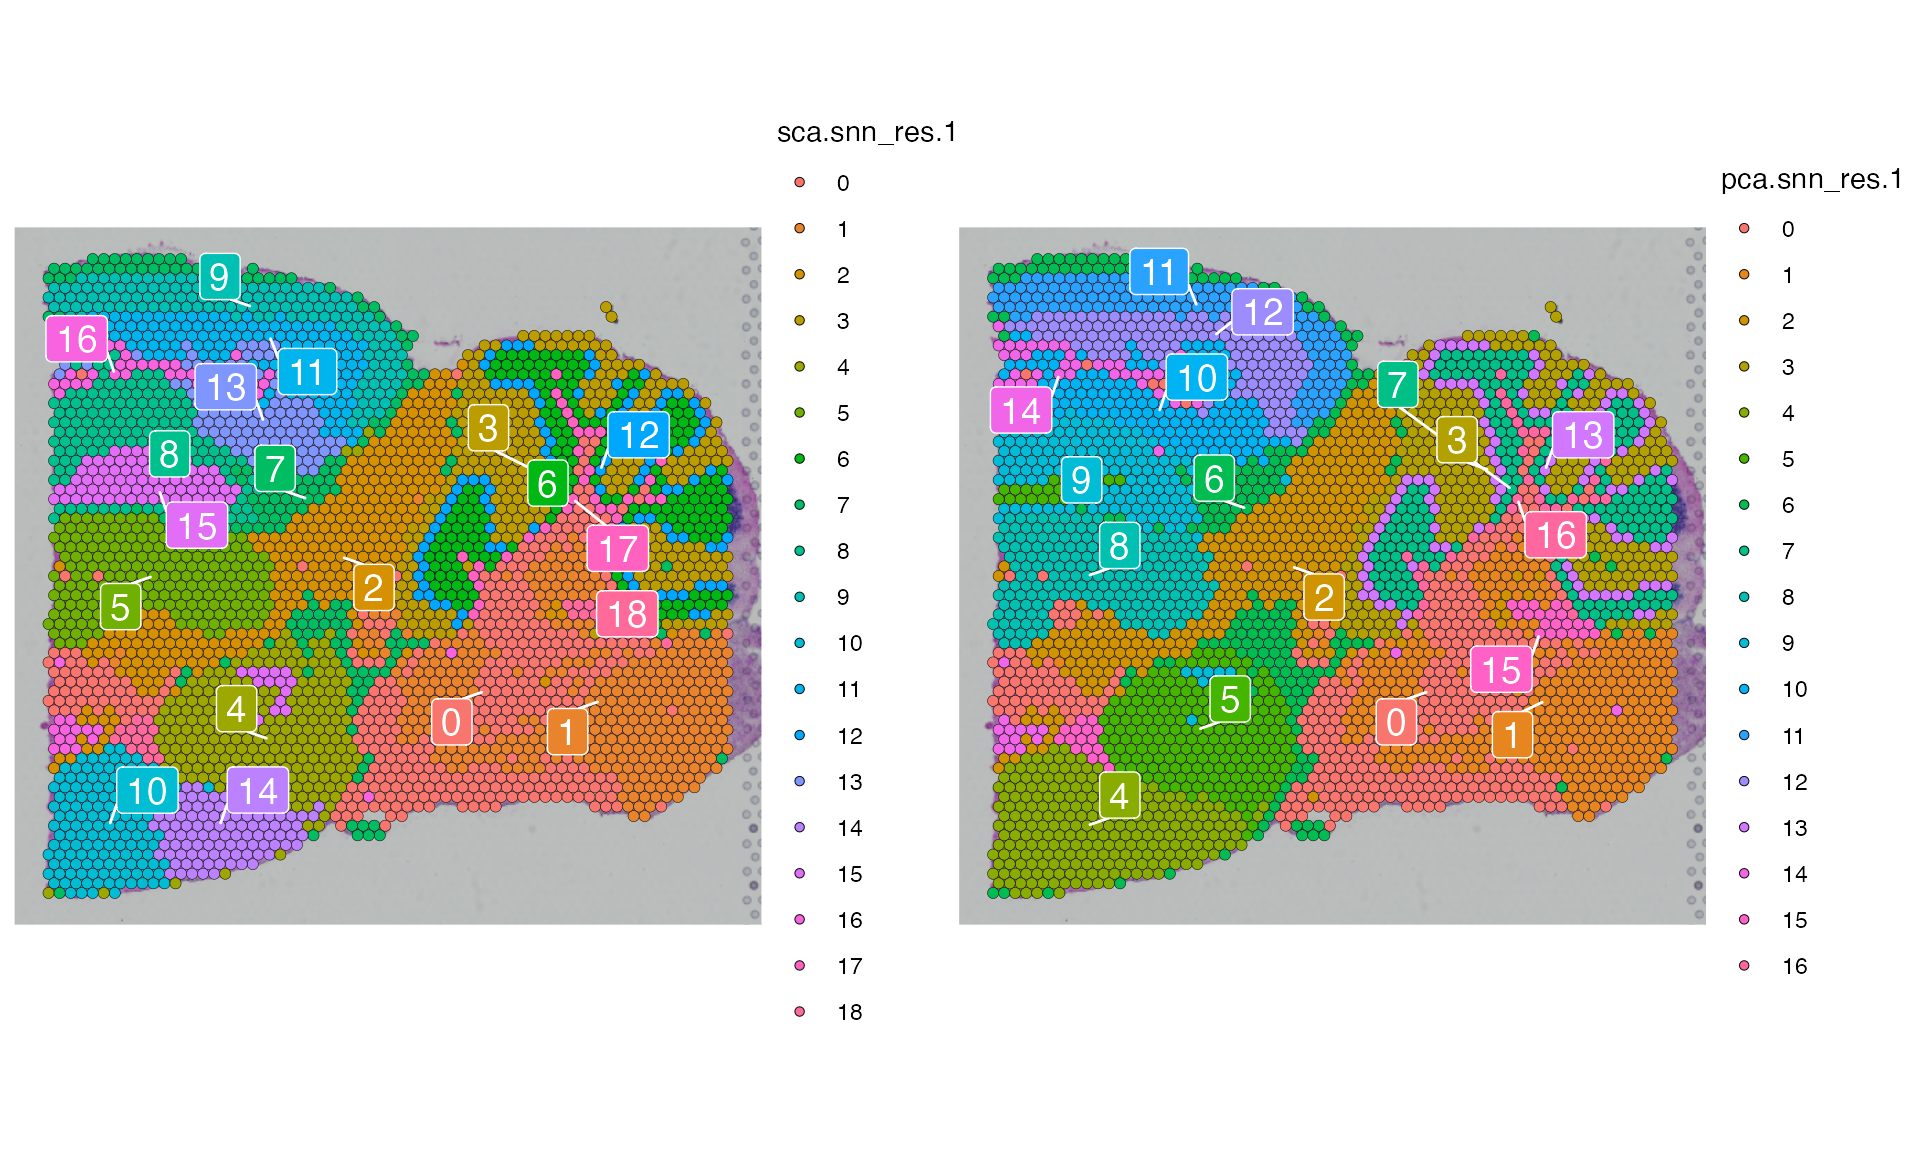
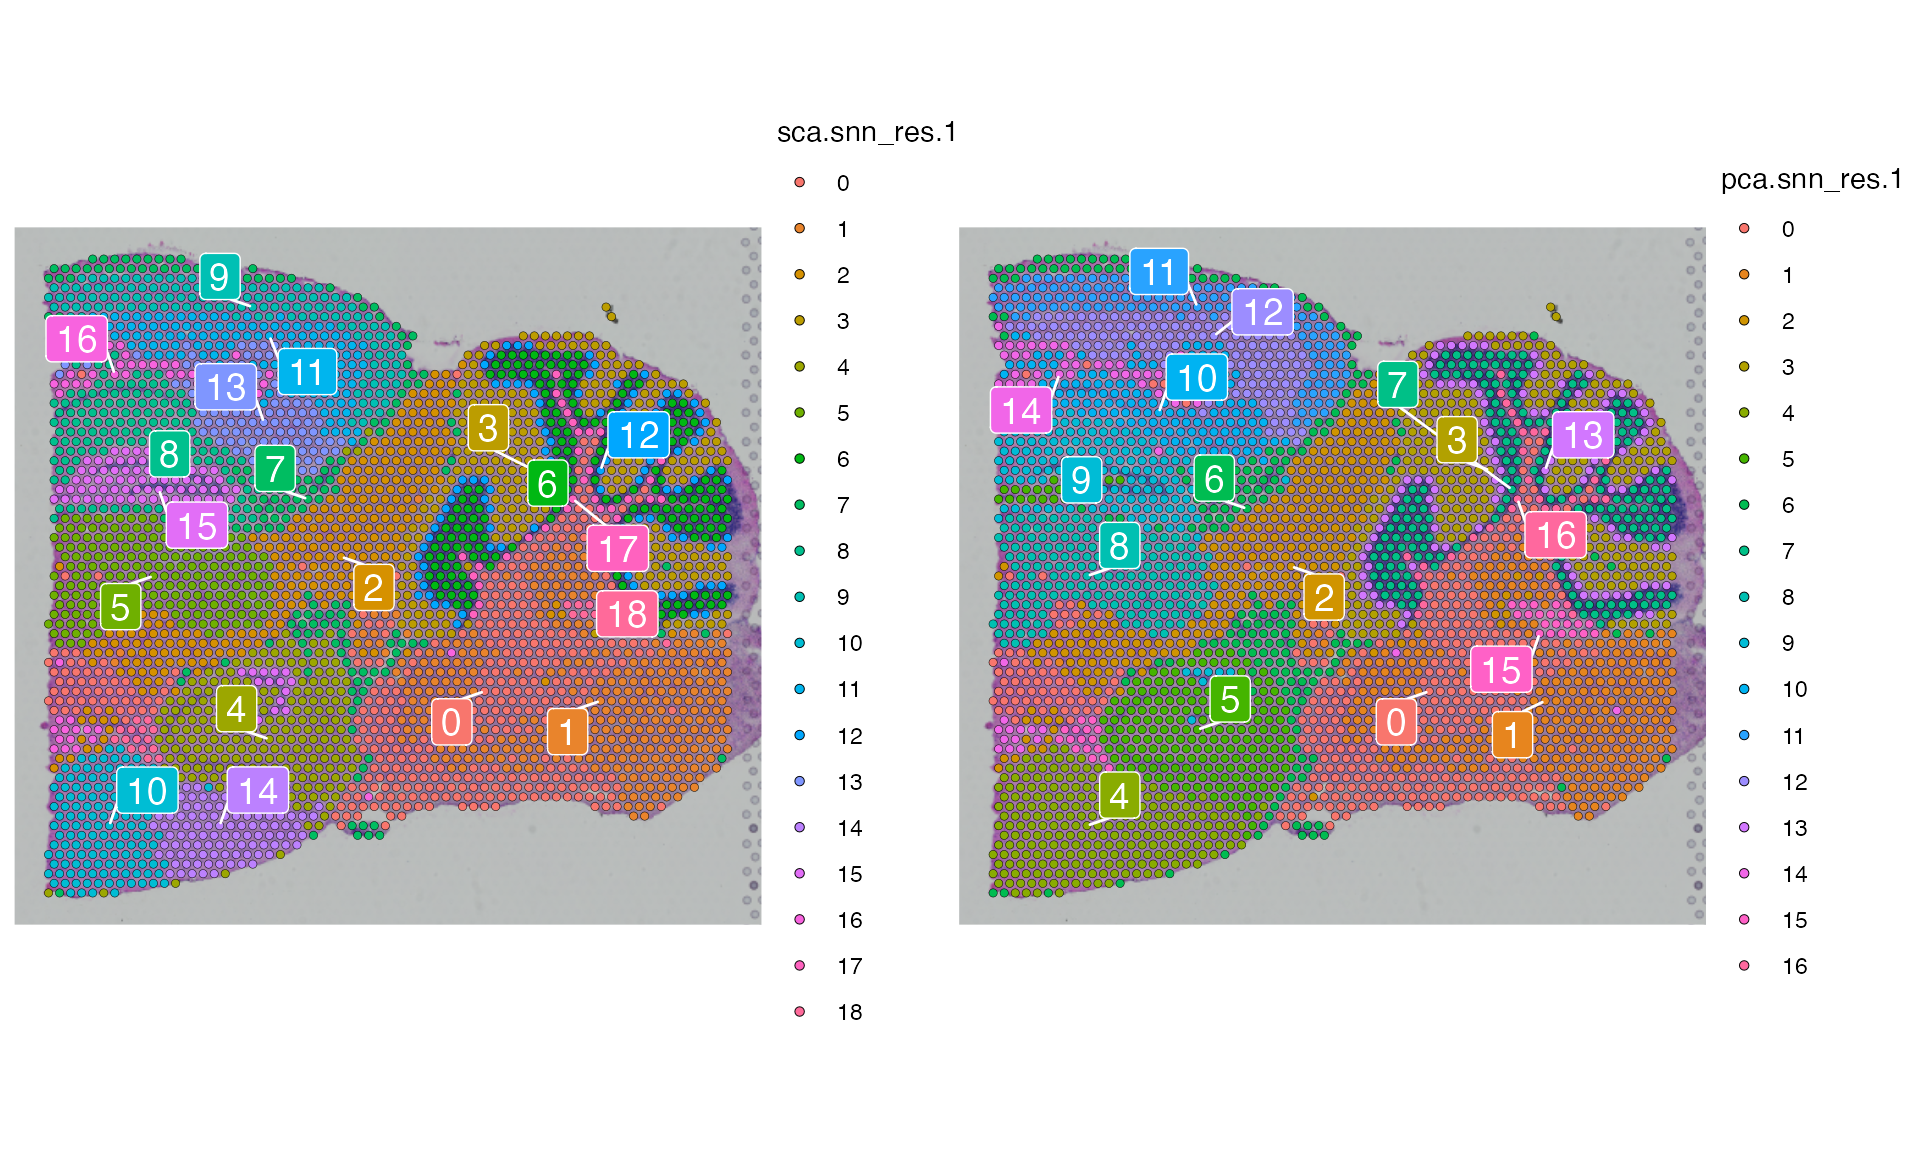
update docs

Changed region(s): [[0.0, 0.2188, 0.4062, 0.7812], [0.5, 0.2188, 0.875, 0.7812]]

diff --git a/docs/articles/get_started.html b/docs/articles/get_started.html
@@ -114,7 +114,7 @@
     <div class="page-header toc-ignore">
       <h1 data-toc-skip>Get started with Visium Brain data</h1>
             
-            <h4 data-toc-skip class="date">Last Run: April 30, 2022</h4>
+            <h4 data-toc-skip class="date">Last Run: May 01, 2022</h4>
       
       <small class="dont-index">Source: <a href="https://github.com/stevexniu/spots/blob/HEAD/vignettes/get_started.Rmd" class="external-link"><code>vignettes/get_started.Rmd</code></a></small>
       <div class="hidden name"><code>get_started.Rmd</code></div>
@@ -138,7 +138,7 @@
 <span class="kw"><a href="https://rdrr.io/r/base/library.html" class="external-link">library</a></span><span class="op">(</span><span class="va"><a href="https://satijalab.org/seurat" class="external-link">Seurat</a></span><span class="op">)</span>
 <span class="kw"><a href="https://rdrr.io/r/base/library.html" class="external-link">library</a></span><span class="op">(</span><span class="va"><a href="https://ggplot2.tidyverse.org" class="external-link">ggplot2</a></span><span class="op">)</span>
 <span class="va">posterior1</span> <span class="op">&lt;-</span> <span class="fu"><a href="../reference/LoadData.html">LoadData</a></span><span class="op">(</span><span class="st">"~/Downloads/"</span>,<span class="st">"Visium.Brain"</span><span class="op">)</span>
-<span class="fu"><a href="https://satijalab.org/seurat/reference/SpatialPlot.html" class="external-link">SpatialDimPlot</a></span><span class="op">(</span><span class="va">posterior1</span><span class="op">)</span></code></pre></div>
+<span class="fu"><a href="https://satijalab.org/seurat/reference/SpatialPlot.html" class="external-link">SpatialDimPlot</a></span><span class="op">(</span><span class="va">posterior1</span>, pt.size.factor <span class="op">=</span> <span class="fl">1.2</span>, group.by <span class="op">=</span> <span class="st">"region"</span><span class="op">)</span></code></pre></div>
 <p><img src="get_started_files/figure-html/load-1.png" width="768"></p>
 </div>
 <div class="section level3">
@@ -182,7 +182,7 @@ Typically, datapoints not located on the edges should have 6 1st-degree, 12 2nd-
 <span class="co"># Visualization</span>
 <span class="va">p1</span> <span class="op">&lt;-</span> <span class="fu"><a href="https://satijalab.org/seurat/reference/DimPlot.html" class="external-link">DimPlot</a></span><span class="op">(</span><span class="va">posterior1</span>, reduction <span class="op">=</span> <span class="st">"sca"</span>, group.by <span class="op">=</span> <span class="st">"region"</span><span class="op">)</span>
 <span class="va">p2</span> <span class="op">&lt;-</span> <span class="fu"><a href="https://satijalab.org/seurat/reference/ElbowPlot.html" class="external-link">ElbowPlot</a></span><span class="op">(</span><span class="va">posterior1</span>, reduction <span class="op">=</span> <span class="st">"sca"</span>, ndims <span class="op">=</span> <span class="fl">30</span><span class="op">)</span>
-<span class="va">p3</span> <span class="op">&lt;-</span> <span class="fu"><a href="https://satijalab.org/seurat/reference/SpatialPlot.html" class="external-link">SpatialFeaturePlot</a></span><span class="op">(</span><span class="va">posterior1</span>, features <span class="op">=</span> <span class="st">'SC_1'</span><span class="op">)</span>
+<span class="va">p3</span> <span class="op">&lt;-</span> <span class="fu"><a href="https://satijalab.org/seurat/reference/SpatialPlot.html" class="external-link">SpatialFeaturePlot</a></span><span class="op">(</span><span class="va">posterior1</span>, features <span class="op">=</span> <span class="st">'SC_1'</span>, pt.size.factor <span class="op">=</span> <span class="fl">1.2</span><span class="op">)</span>
 <span class="va">p4</span> <span class="op">&lt;-</span> <span class="fu"><a href="https://satijalab.org/seurat/reference/DimHeatmap.html" class="external-link">DimHeatmap</a></span><span class="op">(</span><span class="va">posterior1</span>, reduction <span class="op">=</span> <span class="st">"sca"</span>, fast <span class="op">=</span> <span class="cn">FALSE</span><span class="op">)</span>
 <span class="op">(</span><span class="va">p1</span><span class="op">+</span><span class="va">p2</span><span class="op">)</span><span class="op">/</span><span class="op">(</span><span class="va">p3</span><span class="op">+</span><span class="va">p4</span><span class="op">)</span></code></pre></div>
 <p><img src="get_started_files/figure-html/sca-1.png" width="1152"></p>
@@ -194,7 +194,7 @@ Typically, datapoints not located on the edges should have 6 1st-degree, 12 2nd-
 <div class="sourceCode"><pre class="downlit sourceCode r">
 <code class="sourceCode R"><span class="va">posterior1</span> <span class="op">&lt;-</span> <span class="fu"><a href="https://satijalab.org/seurat/reference/FindNeighbors.html" class="external-link">FindNeighbors</a></span><span class="op">(</span><span class="va">posterior1</span>, reduction <span class="op">=</span> <span class="st">"sca"</span>, dims <span class="op">=</span> <span class="fl">1</span><span class="op">:</span><span class="fl">20</span>,graph.name <span class="op">=</span> <span class="fu"><a href="https://rdrr.io/r/base/c.html" class="external-link">c</a></span><span class="op">(</span><span class="st">"sca.nn"</span>, <span class="st">"sca.snn"</span><span class="op">)</span><span class="op">)</span>
 <span class="va">posterior1</span> <span class="op">&lt;-</span> <span class="fu"><a href="https://satijalab.org/seurat/reference/FindClusters.html" class="external-link">FindClusters</a></span><span class="op">(</span><span class="va">posterior1</span>, resolution <span class="op">=</span> <span class="fl">1</span>, verbose <span class="op">=</span> <span class="cn">FALSE</span>, graph.name <span class="op">=</span> <span class="st">"sca.snn"</span><span class="op">)</span>
-<span class="fu"><a href="https://satijalab.org/seurat/reference/SpatialPlot.html" class="external-link">SpatialDimPlot</a></span><span class="op">(</span><span class="va">posterior1</span>, label <span class="op">=</span> <span class="cn">TRUE</span>, label.size <span class="op">=</span> <span class="fl">7</span>, repel <span class="op">=</span> <span class="cn">TRUE</span><span class="op">)</span></code></pre></div>
+<span class="fu"><a href="https://satijalab.org/seurat/reference/SpatialPlot.html" class="external-link">SpatialDimPlot</a></span><span class="op">(</span><span class="va">posterior1</span>, label <span class="op">=</span> <span class="cn">TRUE</span>, label.size <span class="op">=</span> <span class="fl">7</span>, repel <span class="op">=</span> <span class="cn">TRUE</span>, pt.size.factor <span class="op">=</span> <span class="fl">1.2</span><span class="op">)</span></code></pre></div>
 <p><img src="get_started_files/figure-html/clustering-1.png" width="768"></p>
 </div>
 <div class="section level3">
@@ -205,8 +205,8 @@ Typically, datapoints not located on the edges should have 6 1st-degree, 12 2nd-
 <code class="sourceCode R"><span class="va">posterior1</span> <span class="op">&lt;-</span> <span class="fu"><a href="https://satijalab.org/seurat/reference/RunPCA.html" class="external-link">RunPCA</a></span><span class="op">(</span><span class="va">posterior1</span>, npcs <span class="op">=</span> <span class="fl">30</span>, verbose <span class="op">=</span> <span class="cn">FALSE</span><span class="op">)</span>
 <span class="va">posterior1</span> <span class="op">&lt;-</span> <span class="fu"><a href="https://satijalab.org/seurat/reference/FindNeighbors.html" class="external-link">FindNeighbors</a></span><span class="op">(</span><span class="va">posterior1</span>, reduction <span class="op">=</span> <span class="st">"pca"</span>, dims <span class="op">=</span> <span class="fl">1</span><span class="op">:</span><span class="fl">20</span>, graph.name <span class="op">=</span> <span class="fu"><a href="https://rdrr.io/r/base/c.html" class="external-link">c</a></span><span class="op">(</span><span class="st">"pca.nn"</span>, <span class="st">"pca.snn"</span><span class="op">)</span><span class="op">)</span>
 <span class="va">posterior1</span> <span class="op">&lt;-</span> <span class="fu"><a href="https://satijalab.org/seurat/reference/FindClusters.html" class="external-link">FindClusters</a></span><span class="op">(</span><span class="va">posterior1</span>, resolution <span class="op">=</span> <span class="fl">1</span>, verbose <span class="op">=</span> <span class="cn">FALSE</span>, graph.name <span class="op">=</span> <span class="st">"pca.snn"</span><span class="op">)</span>
-<span class="va">p1</span> <span class="op">&lt;-</span> <span class="fu"><a href="https://satijalab.org/seurat/reference/SpatialPlot.html" class="external-link">SpatialDimPlot</a></span><span class="op">(</span><span class="va">posterior1</span>, label <span class="op">=</span> <span class="cn">TRUE</span>, label.size <span class="op">=</span> <span class="fl">5</span>, group.by <span class="op">=</span> <span class="st">"sca.snn_res.1"</span>, repel <span class="op">=</span> <span class="cn">TRUE</span><span class="op">)</span> 
-<span class="va">p2</span> <span class="op">&lt;-</span> <span class="fu"><a href="https://satijalab.org/seurat/reference/SpatialPlot.html" class="external-link">SpatialDimPlot</a></span><span class="op">(</span><span class="va">posterior1</span>, label <span class="op">=</span> <span class="cn">TRUE</span>, label.size <span class="op">=</span> <span class="fl">5</span>, group.by <span class="op">=</span> <span class="st">"pca.snn_res.1"</span>, repel <span class="op">=</span> <span class="cn">TRUE</span><span class="op">)</span> 
+<span class="va">p1</span> <span class="op">&lt;-</span> <span class="fu"><a href="https://satijalab.org/seurat/reference/SpatialPlot.html" class="external-link">SpatialDimPlot</a></span><span class="op">(</span><span class="va">posterior1</span>, label <span class="op">=</span> <span class="cn">TRUE</span>, label.size <span class="op">=</span> <span class="fl">5</span>, group.by <span class="op">=</span> <span class="st">"sca.snn_res.1"</span>, repel <span class="op">=</span> <span class="cn">TRUE</span>, pt.size.factor <span class="op">=</span> <span class="fl">1.2</span><span class="op">)</span> 
+<span class="va">p2</span> <span class="op">&lt;-</span> <span class="fu"><a href="https://satijalab.org/seurat/reference/SpatialPlot.html" class="external-link">SpatialDimPlot</a></span><span class="op">(</span><span class="va">posterior1</span>, label <span class="op">=</span> <span class="cn">TRUE</span>, label.size <span class="op">=</span> <span class="fl">5</span>, group.by <span class="op">=</span> <span class="st">"pca.snn_res.1"</span>, repel <span class="op">=</span> <span class="cn">TRUE</span>, pt.size.factor <span class="op">=</span> <span class="fl">1.2</span><span class="op">)</span> 
 <span class="va">p1</span><span class="op">+</span><span class="va">p2</span></code></pre></div>
 <p><img src="get_started_files/figure-html/pca-1.png" width="960"></p>
 <p>There are 19 clusters (0-18) and 17 clusters (0-16) that were identified by SCA and PCA respectively.</p>

diff --git a/docs/LICENSE-text.html b/docs/LICENSE-text.html
@@ -11,7 +11,7 @@
       "<link id=\"css\" rel=\"stylesheet\" href=\"https://bootswatch.com/3/flatly/bootstrap.css\" onload=\"document.documentElement.style.display = ''\">"
     );
   }
-</script><title>License • rspca</title><!-- favicons --><link rel="icon" type="image/png" sizes="16x16" href="favicon-16x16.png"><link rel="icon" type="image/png" sizes="32x32" href="favicon-32x32.png"><link rel="apple-touch-icon" type="image/png" sizes="180x180" href="apple-touch-icon.png"><link rel="apple-touch-icon" type="image/png" sizes="120x120" href="apple-touch-icon-120x120.png"><link rel="apple-touch-icon" type="image/png" sizes="76x76" href="apple-touch-icon-76x76.png"><link rel="apple-touch-icon" type="image/png" sizes="60x60" href="apple-touch-icon-60x60.png"><!-- jquery --><script src="https://cdnjs.cloudflare.com/ajax/libs/jquery/3.4.1/jquery.min.js" integrity="sha256-CSXorXvZcTkaix6Yvo6HppcZGetbYMGWSFlBw8HfCJo=" crossorigin="anonymous"></script><!-- Bootstrap --><script src="https://cdnjs.cloudflare.com/ajax/libs/twitter-bootstrap/3.4.1/js/bootstrap.min.js" integrity="sha256-nuL8/2cJ5NDSSwnKD8VqreErSWHtnEP9E7AySL+1ev4=" crossorigin="anonymous"></script><!-- bootstrap-toc --><link rel="stylesheet" href="bootstrap-toc.css"><script src="bootstrap-toc.js"></script><!-- Font Awesome icons --><link rel="stylesheet" href="https://cdnjs.cloudflare.com/ajax/libs/font-awesome/5.12.1/css/all.min.css" integrity="sha256-mmgLkCYLUQbXn0B1SRqzHar6dCnv9oZFPEC1g1cwlkk=" crossorigin="anonymous"><link rel="stylesheet" href="https://cdnjs.cloudflare.com/ajax/libs/font-awesome/5.12.1/css/v4-shims.min.css" integrity="sha256-wZjR52fzng1pJHwx4aV2AO3yyTOXrcDW7jBpJtTwVxw=" crossorigin="anonymous"><!-- clipboard.js --><script src="https://cdnjs.cloudflare.com/ajax/libs/clipboard.js/2.0.6/clipboard.min.js" integrity="sha256-inc5kl9MA1hkeYUt+EC3BhlIgyp/2jDIyBLS6k3UxPI=" crossorigin="anonymous"></script><!-- headroom.js --><script src="https://cdnjs.cloudflare.com/ajax/libs/headroom/0.11.0/headroom.min.js" integrity="sha256-AsUX4SJE1+yuDu5+mAVzJbuYNPHj/WroHuZ8Ir/CkE0=" crossorigin="anonymous"></script><script src="https://cdnjs.cloudflare.com/ajax/libs/headroom/0.11.0/jQuery.headroom.min.js" integrity="sha256-ZX/yNShbjqsohH1k95liqY9Gd8uOiE1S4vZc+9KQ1K4=" crossorigin="anonymous"></script><!-- pkgdown --><link href="pkgdown.css" rel="stylesheet"><script src="pkgdown.js"></script><meta property="og:title" content="License"><meta property="og:image" content="https://stevexniu.github.io/rspca/logo.png"><!-- mathjax --><script src="https://cdnjs.cloudflare.com/ajax/libs/mathjax/2.7.5/MathJax.js" integrity="sha256-nvJJv9wWKEm88qvoQl9ekL2J+k/RWIsaSScxxlsrv8k=" crossorigin="anonymous"></script><script src="https://cdnjs.cloudflare.com/ajax/libs/mathjax/2.7.5/config/TeX-AMS-MML_HTMLorMML.js" integrity="sha256-84DKXVJXs0/F8OTMzX4UR909+jtl4G7SPypPavF+GfA=" crossorigin="anonymous"></script><!--[if lt IE 9]>
+</script><title>License • spots</title><!-- favicons --><link rel="icon" type="image/png" sizes="16x16" href="favicon-16x16.png"><link rel="icon" type="image/png" sizes="32x32" href="favicon-32x32.png"><link rel="apple-touch-icon" type="image/png" sizes="180x180" href="apple-touch-icon.png"><link rel="apple-touch-icon" type="image/png" sizes="120x120" href="apple-touch-icon-120x120.png"><link rel="apple-touch-icon" type="image/png" sizes="76x76" href="apple-touch-icon-76x76.png"><link rel="apple-touch-icon" type="image/png" sizes="60x60" href="apple-touch-icon-60x60.png"><!-- jquery --><script src="https://cdnjs.cloudflare.com/ajax/libs/jquery/3.4.1/jquery.min.js" integrity="sha256-CSXorXvZcTkaix6Yvo6HppcZGetbYMGWSFlBw8HfCJo=" crossorigin="anonymous"></script><!-- Bootstrap --><script src="https://cdnjs.cloudflare.com/ajax/libs/twitter-bootstrap/3.4.1/js/bootstrap.min.js" integrity="sha256-nuL8/2cJ5NDSSwnKD8VqreErSWHtnEP9E7AySL+1ev4=" crossorigin="anonymous"></script><!-- bootstrap-toc --><link rel="stylesheet" href="bootstrap-toc.css"><script src="bootstrap-toc.js"></script><!-- Font Awesome icons --><link rel="stylesheet" href="https://cdnjs.cloudflare.com/ajax/libs/font-awesome/5.12.1/css/all.min.css" integrity="sha256-mmgLkCYLUQbXn0B1SRqzHar6dCnv9oZFPEC1g1cwlkk=" crossorigin="anonymous"><link rel="stylesheet" href="https://cdnjs.cloudflare.com/ajax/libs/font-awesome/5.12.1/css/v4-shims.min.css" integrity="sha256-wZjR52fzng1pJHwx4aV2AO3yyTOXrcDW7jBpJtTwVxw=" crossorigin="anonymous"><!-- clipboard.js --><script src="https://cdnjs.cloudflare.com/ajax/libs/clipboard.js/2.0.6/clipboard.min.js" integrity="sha256-inc5kl9MA1hkeYUt+EC3BhlIgyp/2jDIyBLS6k3UxPI=" crossorigin="anonymous"></script><!-- headroom.js --><script src="https://cdnjs.cloudflare.com/ajax/libs/headroom/0.11.0/headroom.min.js" integrity="sha256-AsUX4SJE1+yuDu5+mAVzJbuYNPHj/WroHuZ8Ir/CkE0=" crossorigin="anonymous"></script><script src="https://cdnjs.cloudflare.com/ajax/libs/headroom/0.11.0/jQuery.headroom.min.js" integrity="sha256-ZX/yNShbjqsohH1k95liqY9Gd8uOiE1S4vZc+9KQ1K4=" crossorigin="anonymous"></script><!-- pkgdown --><link href="pkgdown.css" rel="stylesheet"><script src="pkgdown.js"></script><meta property="og:title" content="License"><meta property="og:image" content="https://stevexniu.github.io/spots/logo.png"><!-- mathjax --><script src="https://cdnjs.cloudflare.com/ajax/libs/mathjax/2.7.5/MathJax.js" integrity="sha256-nvJJv9wWKEm88qvoQl9ekL2J+k/RWIsaSScxxlsrv8k=" crossorigin="anonymous"></script><script src="https://cdnjs.cloudflare.com/ajax/libs/mathjax/2.7.5/config/TeX-AMS-MML_HTMLorMML.js" integrity="sha256-84DKXVJXs0/F8OTMzX4UR909+jtl4G7SPypPavF+GfA=" crossorigin="anonymous"></script><!--[if lt IE 9]>
 <script src="https://oss.maxcdn.com/html5shiv/3.7.3/html5shiv.min.js"></script>
 <script src="https://oss.maxcdn.com/respond/1.4.2/respond.min.js"></script>
 <![endif]--><!-- Flatly Theme - Light  --><link id="css-light" rel="stylesheet" href="https://bootswatch.com/3/flatly/bootstrap.css" media="(prefers-color-scheme: light), (prefers-color-scheme: no-preference)"><!-- Darkly Theme - Dark --><link id="css-dark" rel="stylesheet" href="https://bootswatch.com/3/darkly/bootstrap.css" media="(prefers-color-scheme: dark)"><!-- preferably CSS --><link rel="stylesheet" href="preferably.css"><link id="css-code-light" rel="stylesheet" href="code-color-scheme-light.css" media="(prefers-color-scheme: light), (prefers-color-scheme: no-preference)"><link id="css-code-dark" rel="stylesheet" href="code-color-scheme-dark.css" media="(prefers-color-scheme: dark)"><script src="darkswitch.js"></script></head><body data-spy="scroll" data-target="#toc">
@@ -28,7 +28,7 @@
         <span class="icon-bar"></span>
       </button>
       <span class="navbar-brand">
-        <a class="navbar-link" href="index.html">rspca</a>
+        <a class="navbar-link" href="index.html">spots</a>
         <span class="version label label-default" data-toggle="tooltip" data-placement="bottom" title="">0.1.0</span>
       </span>
     </div>
@@ -57,7 +57,7 @@
         </li>
         
         <li>
-  <a href="https://github.com/stevexniu/rspca/" class="external-link">
+  <a href="https://github.com/stevexniu/spots/" class="external-link">
     <span class="fab fa-github fa-lg"></span>
      
   </a>
